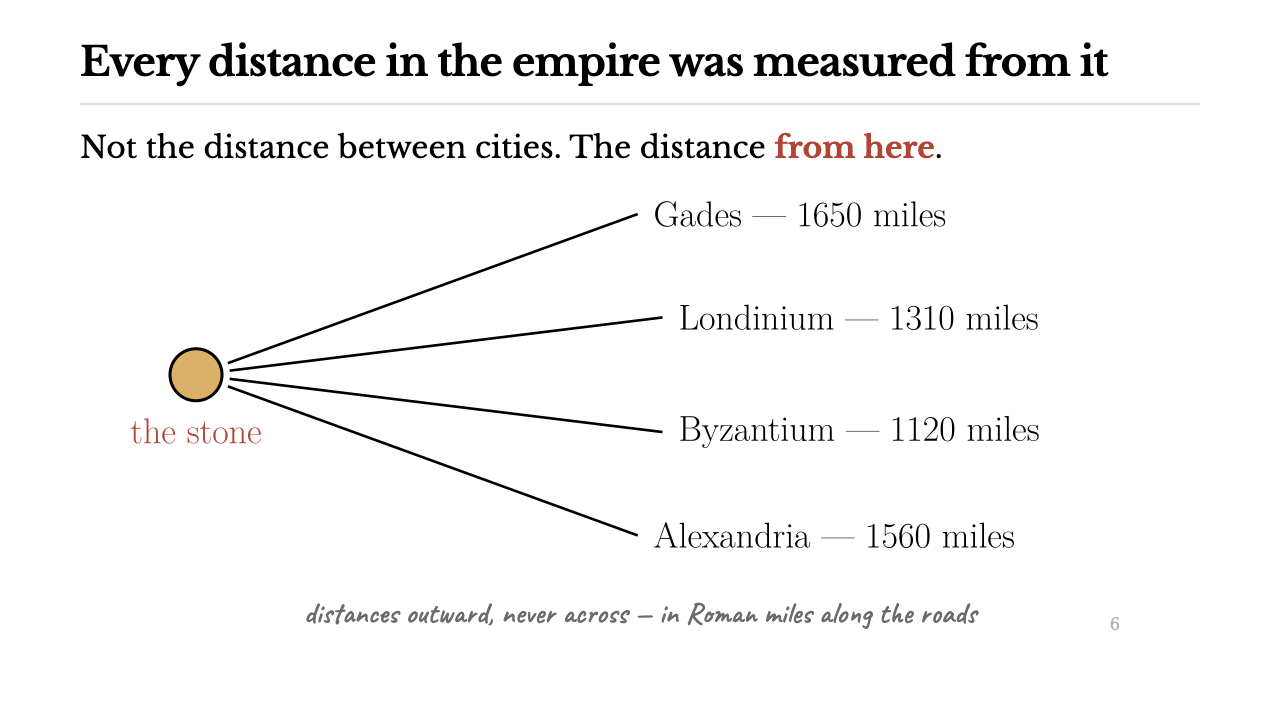
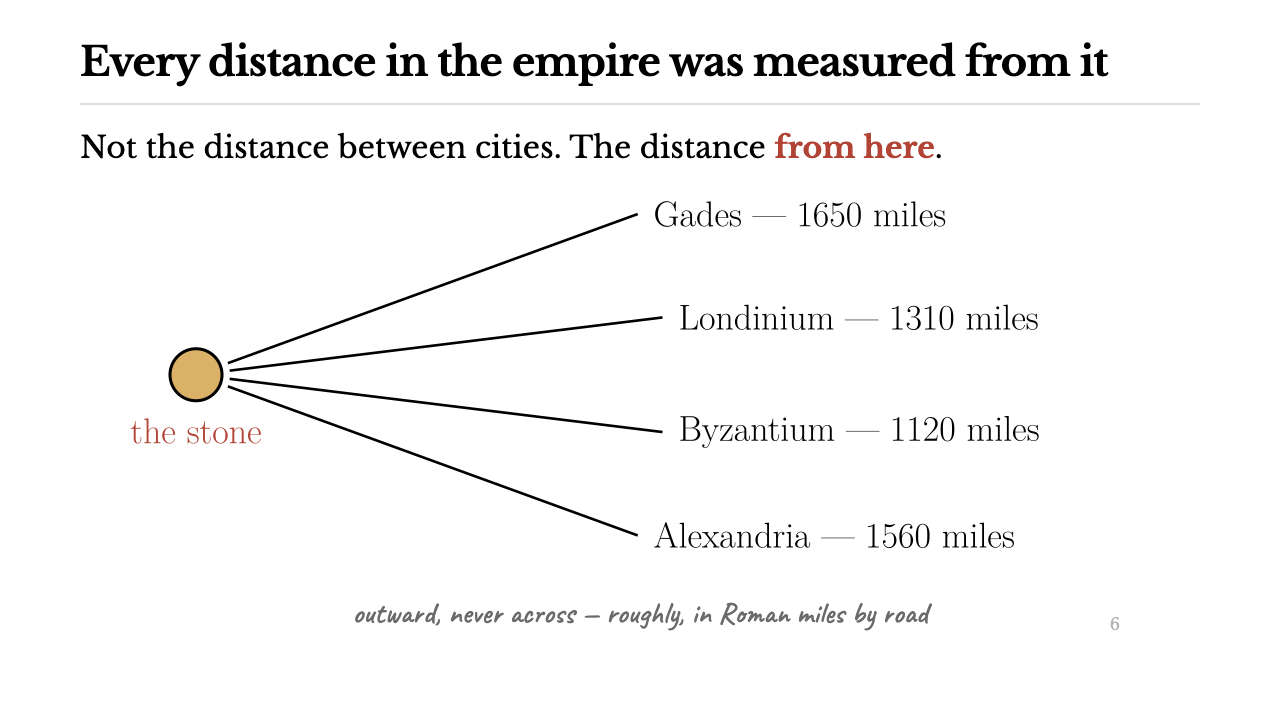
m06 R1 review: 0 blockers, 2 majors, and the ranges nobody read
check_render exits 0 on the current render — 102 slides, node diameter 26-52px
across 398 discs, no overflow, no container mismatch.

The two Majors are honest ones. The eight-page web is drawn with crossings on a
graph that is planar; a crossing-free layout exists and was rejected this round
because every note in that module is anchored to the current geometry, so fixing
it means re-placing the notes in the same pass. And Part 5's milestone is the
GIF rather than the slider the plan asked for, because a slider only exists in
the --html export that the gate never exercises.

The report also records what REVIEW_PLAYBOOK asks it to record: this round had
one reviewer, not the independent pass over disjoint ranges, and it names the six
ranges nobody has opened.

Changed region(s): [[0.25, 0.825, 0.7812, 0.8861]]

diff --git a/docs/slide/new/m06/review/REVIEW_R1.md b/docs/slide/new/m06/review/REVIEW_R1.md
@@ -1,0 +1,112 @@
+# Slide review — docs/slide/new/m06/m06-centrality.md — 2026-08-05
+
+**Verdict:** NEEDS WORK
+**Slides:** 102 · **Blockers:** 0 · **Majors:** 2 · **Minors:** 3
+
+`check_render.py` exits 0 on the current render: 102 slides, node diameter
+26–52 px across 398 discs, no content below the frame, no container mismatch, no
+math inside a figcaption. That is the build gate, not the review.
+
+**Coverage note, per REVIEW_PLAYBOOK:** this round was read by one reviewer (the
+build lead), not by the independent Opus reviewers the playbook asks for over
+disjoint ranges — the three subagents on this module ran out of session budget
+mid-build and the reviewer pass was not dispatched. Roughly 25 of the 102 slides
+were read as rendered PNGs; the rest were checked mechanically (question slides
+carry no answer, one point per slide, no tables or code, no two-text-column
+layouts, no paragraph below a fragmented list, every concept slide has a figure,
+containers, frame overflow, caption width, duplicate titles). **The next round
+should read the ranges nobody has opened**: 15–20, 28–35, 39–44, 53–59, 67–73,
+90–96.
+
+## Milestones (structure pass, S5)
+
+| part | milestone |
+|---|---|
+| 1 The Golden Milestone | slide 10 — draw the club network from the roster (it is also tonight's handout) |
+| 2 Count the roads | slide 15 — count Rome's and Alexandria's roads aloud |
+| 3 Close to everything | slide 23 — compute Massilia's closeness by hand |
+| 4 The broker | slide 38 — count σ by hand; slide 45 — the handout goes out |
+| 5 Known by the company you keep | slide 51 — the power-iteration GIF; slide 58 — "describe a network where this breaks" |
+| 6 Everyone gets a floor | slide 66 — predict what raising λ does, then watch it break |
+| 7 The Web has direction | slide 74 — pick the hub and the authority by eye |
+| 8 Which one should you use? | slides 87 and 96 — "which will you use?" and the star/path prediction |
+
+Every part has one. Part 5's is an animation the lecturer drives rather than a
+student activity; see the open item below.
+
+## Majors
+
+1. **Slides 70, 74, 77, 81, 82, 85, 102 — F2 — the eight-page web is drawn with
+   avoidable edge crossings.** The long News→Blog arrow crosses Links→Wiki and
+   Course→Wiki; News→Wiki crosses Links→Wiki. The underlying undirected graph has
+   twelve distinct pairs and `nx.check_planarity` says it is planar, so a
+   crossing-free drawing exists — an annealing search finds one in seconds.
+   *Fix:* re-lay `WEB_XY` **and** re-place the in-drawing notes and badges in the
+   same pass. A crossing-free layout was found and rejected during this build
+   because every note in `figs_web.py` is anchored to the current geometry: moving
+   the pages put the `A_ij = 1` note on Forum, the authority badge on the
+   Links→Forum link, and the teleport arc through Wiki. The reason is recorded in
+   a comment above `WEB_XY` so the next attempt starts from it.
+
+2. **Deck — S5 — Part 5's milestone is a demo, not a student activity.** The plan
+   asked for a power-iteration slider the lecturer drags. It is not built: a
+   slider exists only in the `--html` export, which `check_render.py` never
+   exercises, and `DECK_BUILD_GUIDE.md` is explicit that confirming the `<script>`
+   survived the export is not confirming that it runs. Shipping an untested widget
+   is worse than shipping the GIF. *Fix:* build it against
+   `verify_numbers.POWER_TRACE` (the GIF already comes from that array, so the two
+   cannot drift), then drive the real control in a browser and read the outcome
+   back out of the DOM.
+
+## Minors
+
+3. **Every haloed figure — the render gate's `smallest_text` heuristic reports
+   1–3 px "text" on 34 slides.** City names on the Roman map are drawn with a
+   white halo so a road can pass behind them, which leaves short black stubs where
+   a road enters and leaves a word. The heuristic counts those stubs as glyphs.
+   The generator's measured assertion (36 pt → 15.5 px x-height at scale 1.000) is
+   the gate that matters here, and it passes on every figure. *Fix, if it is worth
+   one:* teach `smallest_text` to ignore components with no same-height
+   neighbours within a word's distance.
+
+4. **Web slides — the node-diameter band is unenforced there.** Pages are drawn as
+   rounded boxes rather than discs, which is the right choice for pages, but it
+   means `node_discs()` finds nothing on those seven slides. Not a defect in the
+   deck; recorded so nobody reads the green run as coverage.
+
+5. **Slide 6 — the four mileages are the deck's only hand-entered numbers.**
+   Approximate road distances from Rome in Roman miles, from the itineraries
+   rather than from the graph. The figcaption now says "roughly" and the numbers
+   are recorded in `DECK_SPEC.md`.
+
+## What the round verified
+
+- **Every number on a slide is computed and asserted.** `verify_numbers.py` exits
+  0 and holds 60+ assertions, including the ones the prose quotes: Massilia's
+  eleven distances (3 at one step, 5 at two, 3 at three; sum 22), Rome's 18, the
+  8 % eigenvector gap, λ_max = 3.3461 and the eleven scores that go negative past
+  it, the 4992-variant robustness figures, the two-strike attack survivor counts
+  (7 against 5), and the personalized-PageRank margin flip (0.009 → 0.125).
+- **One geometry across the whole Roman thread.** Twenty-five map figures go
+  through `romelib.map_body()` and `assert_same_geometry()` fails the build, by
+  city name, if any of them moves a disc.
+- **Question slides carry no answers.** All 21 were read as source with their
+  speaker notes; none names the answer that follows.
+- **No tables, no code, no two-column text, no bullet list over four items,
+  no paragraph under a fragmented list, no duplicate slide titles.**
+- **Nothing overflows the frame.** Six slides did, and the sentences that came off
+  them are in the speaker notes.
+
+## Fixed during this round
+
+- Ten slides failed the 26–52 px node band because a highlight **ring** around a
+  disc reads to the gate as one 57 px disc. `figlib.mark()` now marks a node by
+  thickening its own border, and `figlib.ring()` refuses to be drawn in a node
+  fill colour close to a disc.
+- The eigenvalue dots (16 bp) and the purpose thumbnails (26 bp) were being
+  counted as undersized nodes; both are drawn at the band's floor now.
+- `hits-collapses.png` rendered byte-identical to `roma-eigenvector.png` — which
+  is the theorem, not a bug. The Part 7 slide reuses the Part 5 figure and says so.
+- Two slides shared a figure with a different explanation; both now have their own.
+- A caption claimed two marked edges where the figure marks one.
+- The club summary marked its third student with a blue ring on a blue disc.

diff --git a/docs/slide/new/m06/review/DECK_SPEC.md b/docs/slide/new/m06/review/DECK_SPEC.md
@@ -245,6 +245,8 @@ against ~3×10⁸ for thirty power-iteration steps — a factor of about **33,00
 
 ## History (each checked before it was written)
 
+The four mileages on `milestone-radial` are the deck's **only hand-entered numbers**: approximate road distances from Rome in Roman miles (Gades 1650, Londinium 1310, Byzantium 1120, Alexandria 1560), taken from the road itineraries rather than computed from the graph. The figcaption says "roughly" for that reason.
+
 Milliarium Aureum: erected by **Augustus in 20 BC**, in the Forum Romanum, as
 *curator viarum*. Aesop: 6th century BC. Perron **1907**, Frobenius **1912**. Bavelas
 **1950** (closeness). Katz **1953**. Hubbell **1965**. Beauchamp **1965** (harmonic).

diff --git a/docs/slide/new/m06/m06-centrality.md b/docs/slide/new/m06/m06-centrality.md
@@ -100,7 +100,7 @@ Not the distance between cities. The distance **from here**.
 <div class="fig tall">
 
 ![w:1080](figures/milestone-radial.png)
-<figcaption>distances outward, never across — in Roman miles along the roads</figcaption>
+<figcaption>outward, never across — roughly, in Roman miles by road</figcaption>
 
 </div>
 
